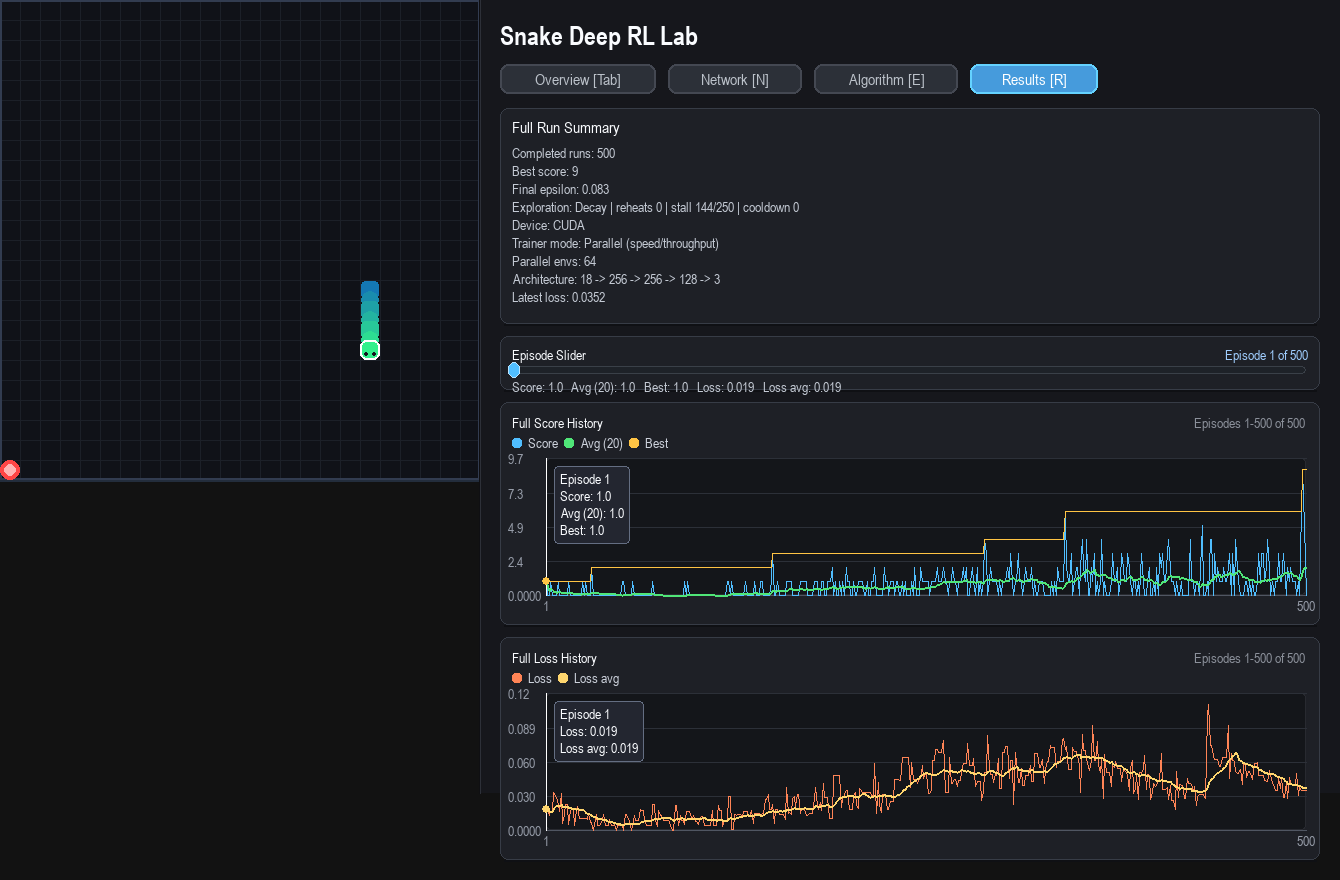
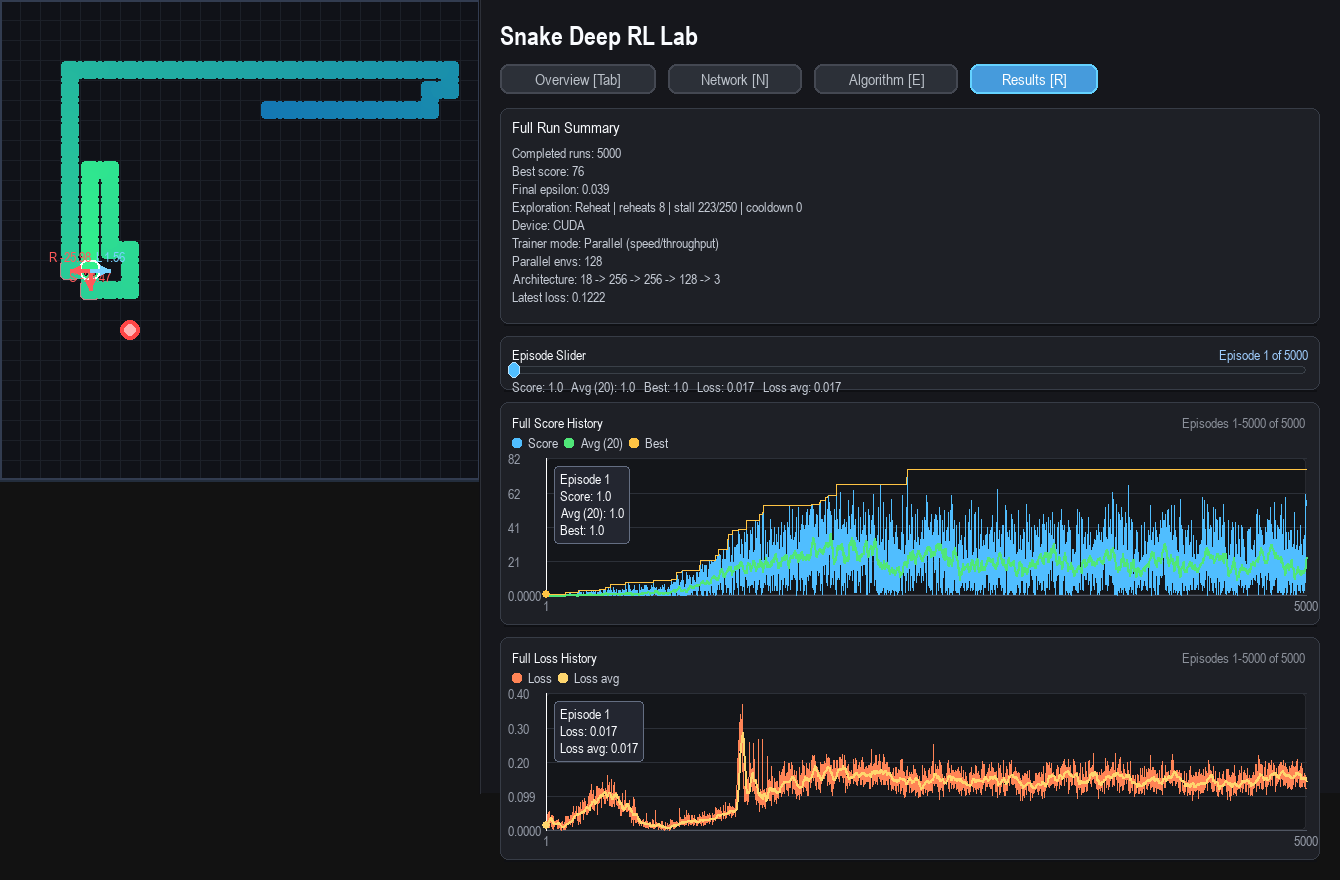
Initial commit: Snake Deep RL with dashboard and DQN - V9.0 - Manhattan Distance SHaping of Reward

diff --git a/snake_game.py b/snake_game.py
@@ -33,6 +33,7 @@ class Point:
 LOOP_WINDOW_SIZE = 24
 LOOP_REPEAT_THRESHOLD = 3
 LOOP_REPEAT_PENALTY = -0.25
+FOOD_PROGRESS_SHAPING_SCALE = 0.05
 
 
 def _food_distance_for_env(env):
@@ -45,6 +46,13 @@ def _reset_loop_tracking_state(env):
     env._loop_signatures = deque(maxlen=LOOP_WINDOW_SIZE)
     env._loop_signature_counts = {}
     env._last_food_distance = _food_distance_for_env(env)
+
+
+def _food_progress_shaping(env, current_distance=None):
+    if current_distance is None:
+        current_distance = _food_distance_for_env(env)
+    previous_distance = getattr(env, "_last_food_distance", current_distance)
+    return FOOD_PROGRESS_SHAPING_SCALE * float(previous_distance - current_distance)
 
 
 def _append_loop_signature(env, signature):
@@ -60,8 +68,9 @@ def _append_loop_signature(env, signature):
     env._loop_signature_counts[signature] = env._loop_signature_counts.get(signature, 0) + 1
 
 
-def _maybe_apply_loop_penalty(env):
-    current_distance = _food_distance_for_env(env)
+def _maybe_apply_loop_penalty(env, current_distance=None):
+    if current_distance is None:
+        current_distance = _food_distance_for_env(env)
     previous_distance = getattr(env, "_last_food_distance", current_distance)
     food_progress = current_distance < previous_distance
     food = env.food or Point(-1, -1)
@@ -233,7 +242,9 @@ class SnakeLogicEnv:
         else:
             tail = self.snake.pop()
             self.snake_body_set.discard(tail)
-            reward += _maybe_apply_loop_penalty(self)
+            current_distance = _food_distance_for_env(self)
+            reward += _food_progress_shaping(self, current_distance=current_distance)
+            reward += _maybe_apply_loop_penalty(self, current_distance=current_distance)
 
         if self.render and draw_frame:
             self.draw()
@@ -517,7 +528,9 @@ class SnakeGameAI(SnakeLogicEnv):
         else:
             tail = self.snake.pop()
             self.snake_body_set.discard(tail)
-            reward += _maybe_apply_loop_penalty(self)
+            current_distance = _food_distance_for_env(self)
+            reward += _food_progress_shaping(self, current_distance=current_distance)
+            reward += _maybe_apply_loop_penalty(self, current_distance=current_distance)
 
         if self.render and draw_frame:
             self._draw_scene()

diff --git a/SESSION_HANDOFF.md b/SESSION_HANDOFF.md
@@ -23,6 +23,7 @@ Build a self-contained Deep RL Snake training lab in this folder, with:
 - repeated spin-loop behavior now gets a small soft penalty instead of only timing out
 - the post-run `Results` tab now has an interactive episode slider or scrubber for inspecting values across the full run
 - the finished-window loop has extra defensive rebuilding so post-run tab clicks do not immediately tear down the window on view refresh errors
+- non-terminal moves now get a small Manhattan-distance shaping term so the reward is denser when the snake moves toward food
 - older bullets below that mention `No Render` describe superseded behavior and should not be treated as current
 
 ## Current smoke-test commands
@@ -58,6 +59,11 @@ Use these current commands instead of the older `--no-render` examples lower in 
 - verified a dummy-display post-run smoke:
   - `Results`, `Overview`, `Network`, `Algorithm`, then back to `Results` all redraw cleanly
   - the new results slider updates the selected episode index
+- verified in-sandbox that `py_compile` still passes after the Manhattan-shaping patch
+- verified by direct code inspection that both snake environments now:
+  - keep death and food rewards unchanged
+  - add Manhattan shaping only on ordinary non-terminal moves
+  - still apply the soft anti-loop penalty on top of those ordinary moves
 
 ## Latest UI fixes
 
@@ -80,6 +86,10 @@ Use these current commands instead of the older `--no-render` examples lower in 
 - added a soft anti-spin penalty in both snake environments:
   - repeated `(head, direction, food)` signatures inside a short window subtract a small extra reward
   - food pickups reset the loop detector
+- added Manhattan-distance reward shaping in both snake environments:
+  - `FOOD_PROGRESS_SHAPING_SCALE = 0.05`
+  - ordinary moves now add `0.05 * (previous_distance - current_distance)`
+  - food and death steps still use their original rewards only
 - the lower dock now carries a `Stall threshold` entry box without shifting the main sidebar layout
 - parallel bulk mode no longer pretends the left board is one live run
   - the board now switches to an aggregate `Parallel Bulk Training` status panel

diff --git a/README.md b/README.md
@@ -84,6 +84,7 @@ Notes:
 - the DQN now uses automatic plateau recovery: when training stalls for long enough, epsilon reheats upward temporarily before decaying again
 - the default stall threshold is now `150`, and the GUI exposes it as an editable lower-dock input
 - repeated spin-loop behavior now gets a small automatic penalty so the snake is nudged away from cycling in place
+- non-terminal moves now get a small Manhattan-distance shaping term (`0.05 * (previous_distance - current_distance)`) so the snake gets a denser signal for moving toward food
 - resume restores trainer-mode metadata from checkpoints unless you explicitly override it on the CLI
 - when a fast-mode session finishes, the UI can replay the last 3 recorded runs from both the board overlay and a `Recent Replays` card in `Overview`
 - the `Recent Replays` card explains when replay is unavailable and what will be captured next
